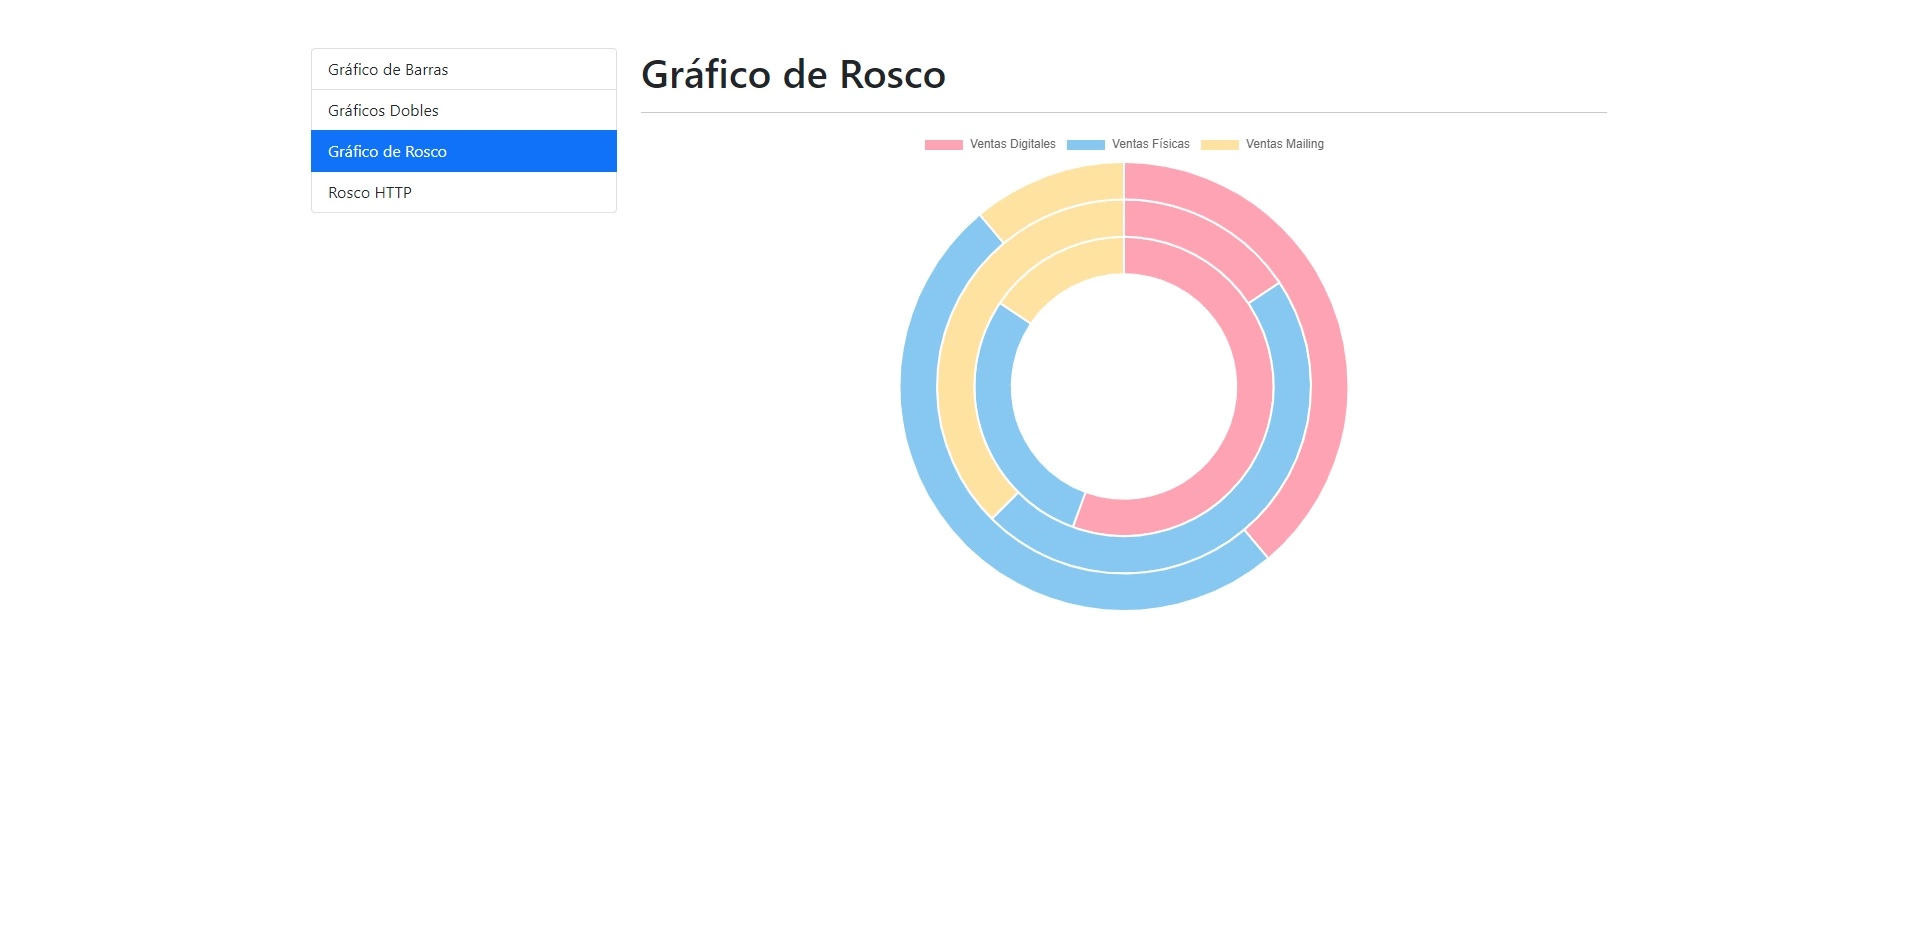
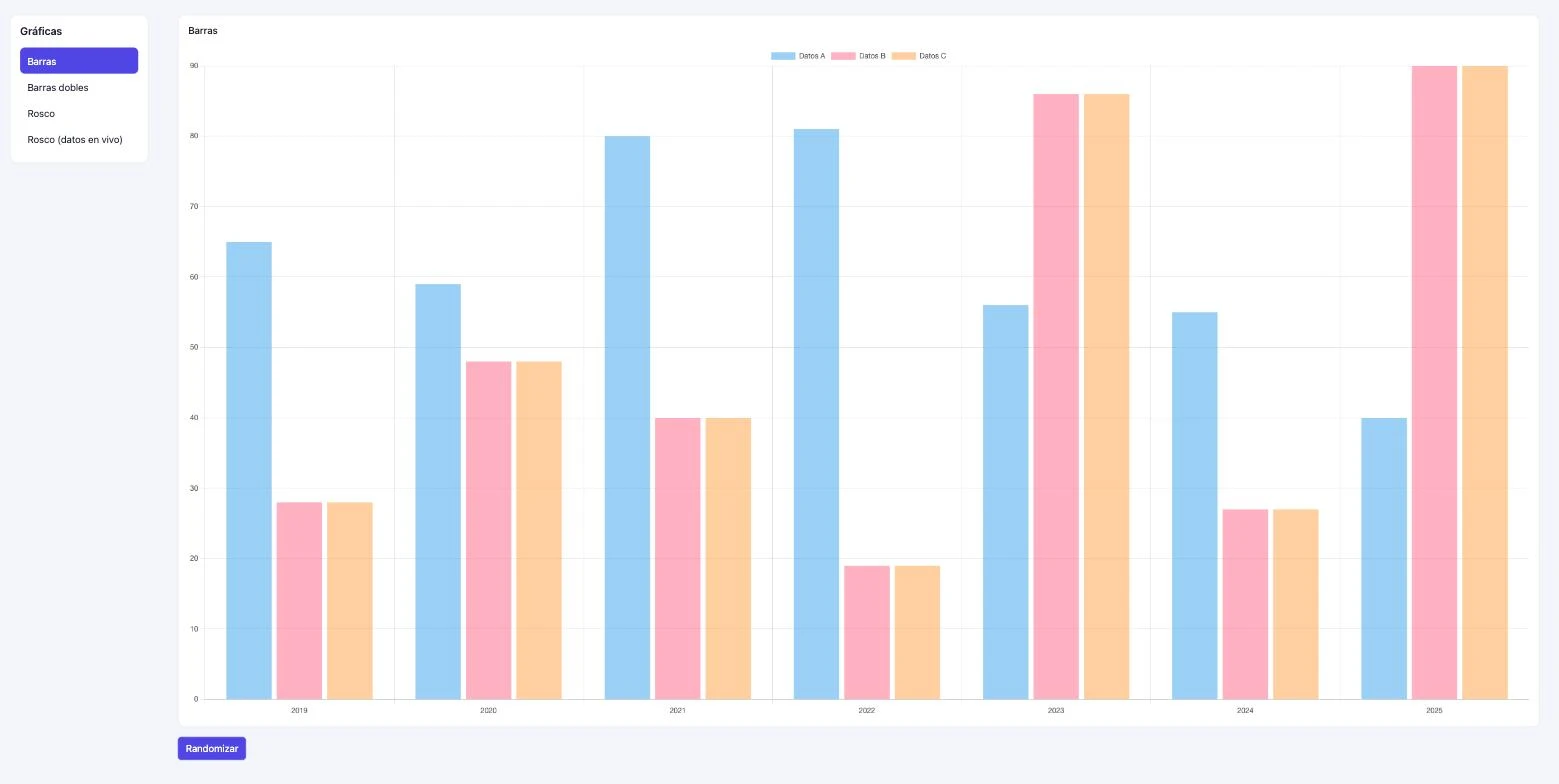
fix: update project ordering and enhance "Charts" project details

diff --git a/src/content/projects/es/graficos.md b/src/content/projects/es/graficos.md
@@ -1,19 +1,20 @@
 ---
 title: "Gráficos con Ng2-Charts"
-tagline: "Visualización de datos con Ng2-Charts."
+tagline: "Visualización de datos con Ng2-Charts, con un backend propio detrás."
 year: 2022
 stack:
   - "Angular"
   - "Ng2-Charts"
-summary: "Gráficos para una lectura rápida de la información."
+  - "Chart.js"
+summary: "Gráficos para una lectura rápida de la información, con datos en vivo desde una API propia."
 role: "Frontend"
 links:
   - label: "Ver proyecto"
-    href: "https://graficas-tcp.herokuapp.com/"
-featured: false
-order: 11
+    href: "https://graficas-tcp.netlify.app/"
+featured: true
+order: 2
 cover: "../../../assets/projects/graficosApp.webp"
 theme: "coral"
 ---
 
-Gráficos pensados para leerse de un vistazo, no para decorar.
+Gráficos pensados para leerse de un vistazo, no para decorar. Uno de ellos consume datos reales desde un backend propio (Node, Express, MongoDB) vía HTTP y RxJS — el mismo backend que sirve a MEAN CRUD SuperHeroes.

diff --git a/src/content/projects/en/graficos.md b/src/content/projects/en/graficos.md
@@ -1,19 +1,20 @@
 ---
 title: "Charts with Ng2-Charts"
-tagline: "Data visualization with Ng2-Charts."
+tagline: "Data visualization with Ng2-Charts, backed by a real API."
 year: 2022
 stack:
   - "Angular"
   - "Ng2-Charts"
-summary: "Charts for a quick read of the data."
+  - "Chart.js"
+summary: "Charts for a quick read of the data, with live data from a self-built API."
 role: "Frontend"
 links:
   - label: "View project"
-    href: "https://graficas-tcp.herokuapp.com/"
-featured: false
-order: 11
+    href: "https://graficas-tcp.netlify.app/"
+featured: true
+order: 2
 cover: "../../../assets/projects/graficosApp.webp"
 theme: "coral"
 ---
 
-Charts built to be read at a glance, not to decorate.
+Charts built to be read at a glance, not to decorate. One of them pulls live data from a self-built backend (Node, Express, MongoDB) over HTTP and RxJS — the same backend that powers MEAN CRUD SuperHeroes.

diff --git a/src/content/projects/en/talleres.md b/src/content/projects/en/talleres.md
@@ -11,7 +11,7 @@ links:
   - label: "View project"
     href: "http://www.tallerescarrascosa.com/"
 featured: true
-order: 5
+order: 6
 cover: "../../../assets/projects/talleresCarrascosa.webp"
 theme: "amber"
 ---

diff --git a/src/content/projects/es/talleres.md b/src/content/projects/es/talleres.md
@@ -11,7 +11,7 @@ links:
   - label: "Ver proyecto"
     href: "http://www.tallerescarrascosa.com/"
 featured: true
-order: 5
+order: 6
 cover: "../../../assets/projects/talleresCarrascosa.webp"
 theme: "amber"
 ---

diff --git a/src/content/projects/en/nested.md b/src/content/projects/en/nested.md
@@ -11,7 +11,7 @@ links:
   - label: "View project"
     href: "https://nested-selectors-tcp.netlify.app/"
 featured: false
-order: 10
+order: 11
 cover: "../../../assets/projects/nestedApp.webp"
 theme: "ice"
 ---

diff --git a/src/content/projects/es/nested.md b/src/content/projects/es/nested.md
@@ -11,7 +11,7 @@ links:
   - label: "Ver proyecto"
     href: "https://nested-selectors-tcp.netlify.app/"
 featured: false
-order: 10
+order: 11
 cover: "../../../assets/projects/nestedApp.webp"
 theme: "ice"
 ---

diff --git a/src/content/projects/en/indecision.md b/src/content/projects/en/indecision.md
@@ -11,7 +11,7 @@ links:
   - label: "View project"
     href: "https://indecision-tcp.netlify.app/"
 featured: false
-order: 6
+order: 7
 cover: "../../../assets/projects/indecisionApp.webp"
 theme: "coral"
 ---

diff --git a/src/content/projects/es/indecision.md b/src/content/projects/es/indecision.md
@@ -11,7 +11,7 @@ links:
   - label: "Ver proyecto"
     href: "https://indecision-tcp.netlify.app/"
 featured: false
-order: 6
+order: 7
 cover: "../../../assets/projects/indecisionApp.webp"
 theme: "coral"
 ---

diff --git a/src/content/projects/en/bar-armando.md b/src/content/projects/en/bar-armando.md
@@ -12,7 +12,7 @@ links:
   - label: "View project"
     href: "https://bar-armando-tcp.netlify.app/"
 featured: false
-order: 13
+order: 12
 cover: "../../../assets/projects/barArmando.webp"
 theme: "mint"
 ---

diff --git a/src/content/projects/es/bar-armando.md b/src/content/projects/es/bar-armando.md
@@ -12,7 +12,7 @@ links:
   - label: "Ver proyecto"
     href: "https://bar-armando-tcp.netlify.app/"
 featured: false
-order: 13
+order: 12
 cover: "../../../assets/projects/barArmando.webp"
 theme: "mint"
 ---

diff --git a/src/content/projects/en/paises.md b/src/content/projects/en/paises.md
@@ -11,7 +11,7 @@ links:
   - label: "View project"
     href: "https://paises-app-tcp.netlify.app/"
 featured: false
-order: 8
+order: 9
 cover: "../../../assets/projects/paisesApp.webp"
 theme: "mint"
 ---

diff --git a/src/content/projects/en/pipes.md b/src/content/projects/en/pipes.md
@@ -11,7 +11,7 @@ links:
   - label: "View project"
     href: "https://pipes-app-tcp.netlify.app/"
 featured: false
-order: 9
+order: 10
 cover: "../../../assets/projects/pipesApp.webp"
 theme: "amber"
 ---
